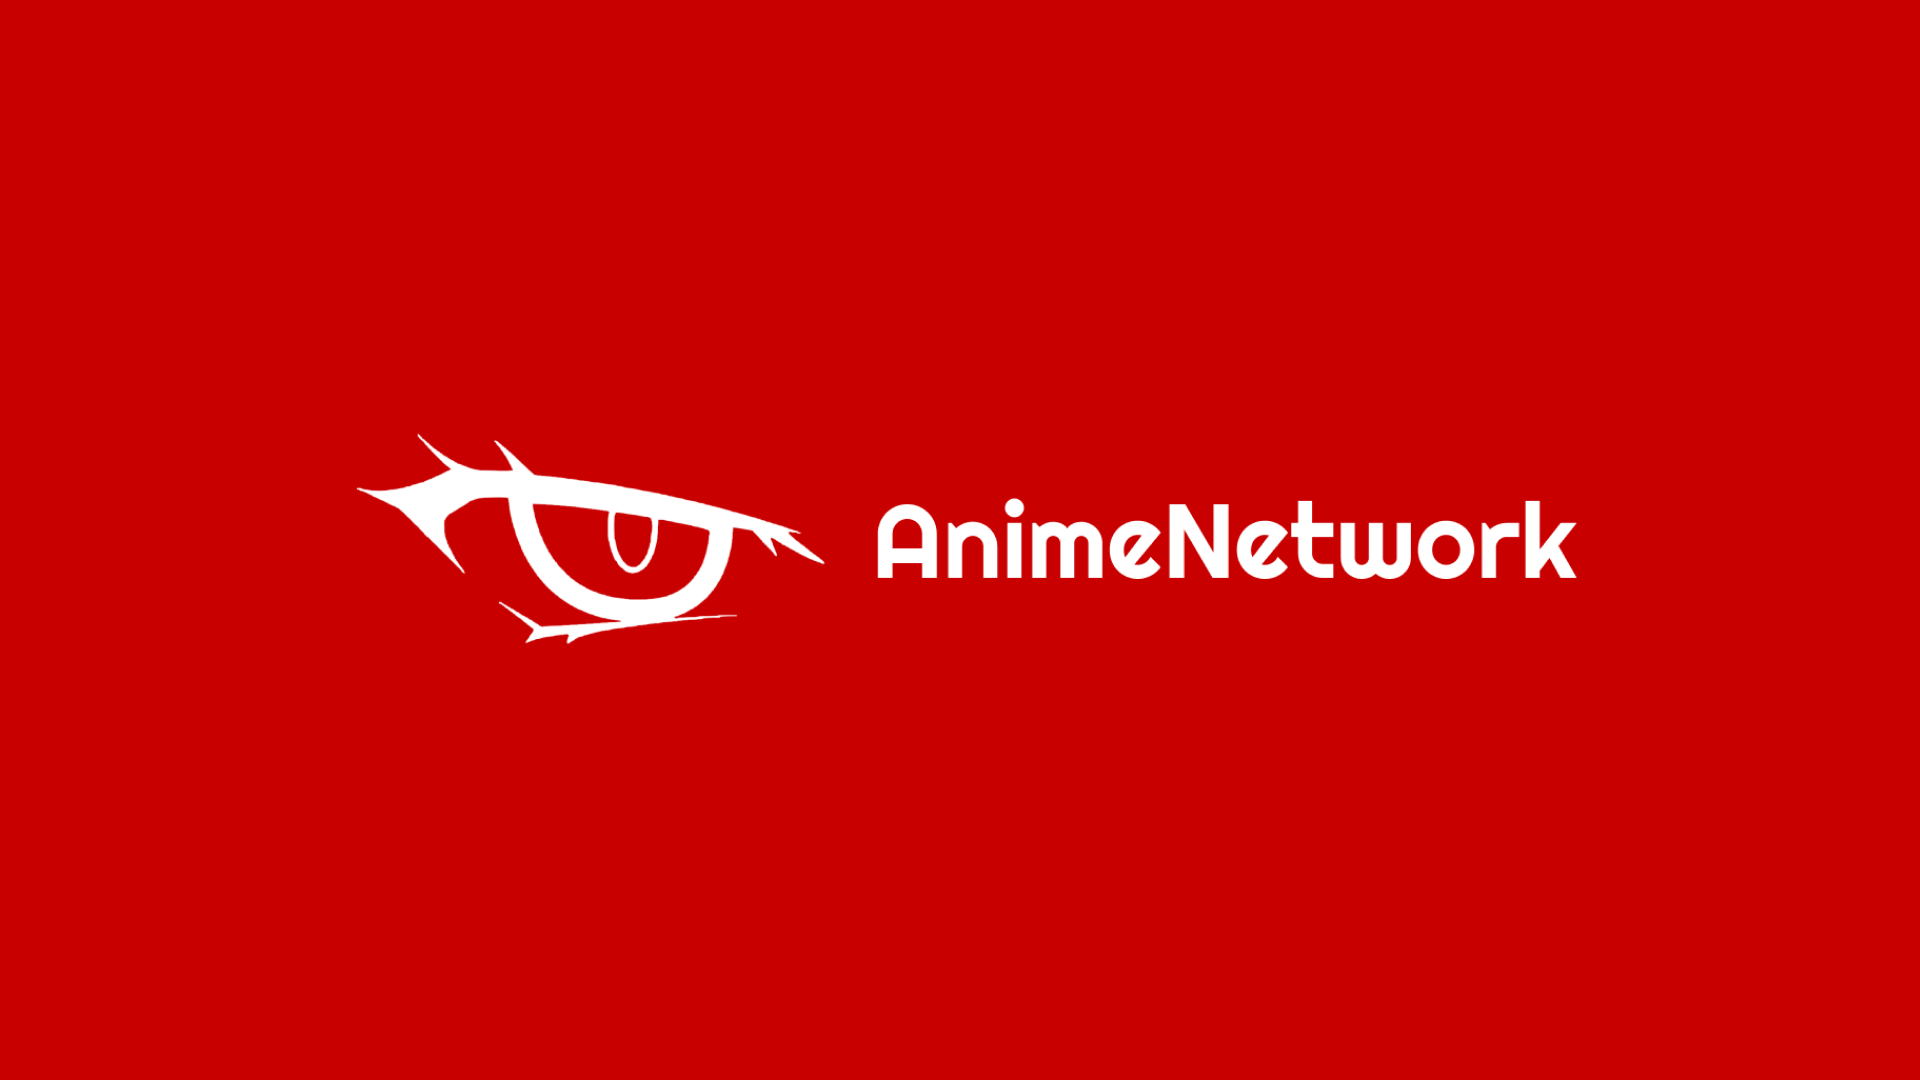
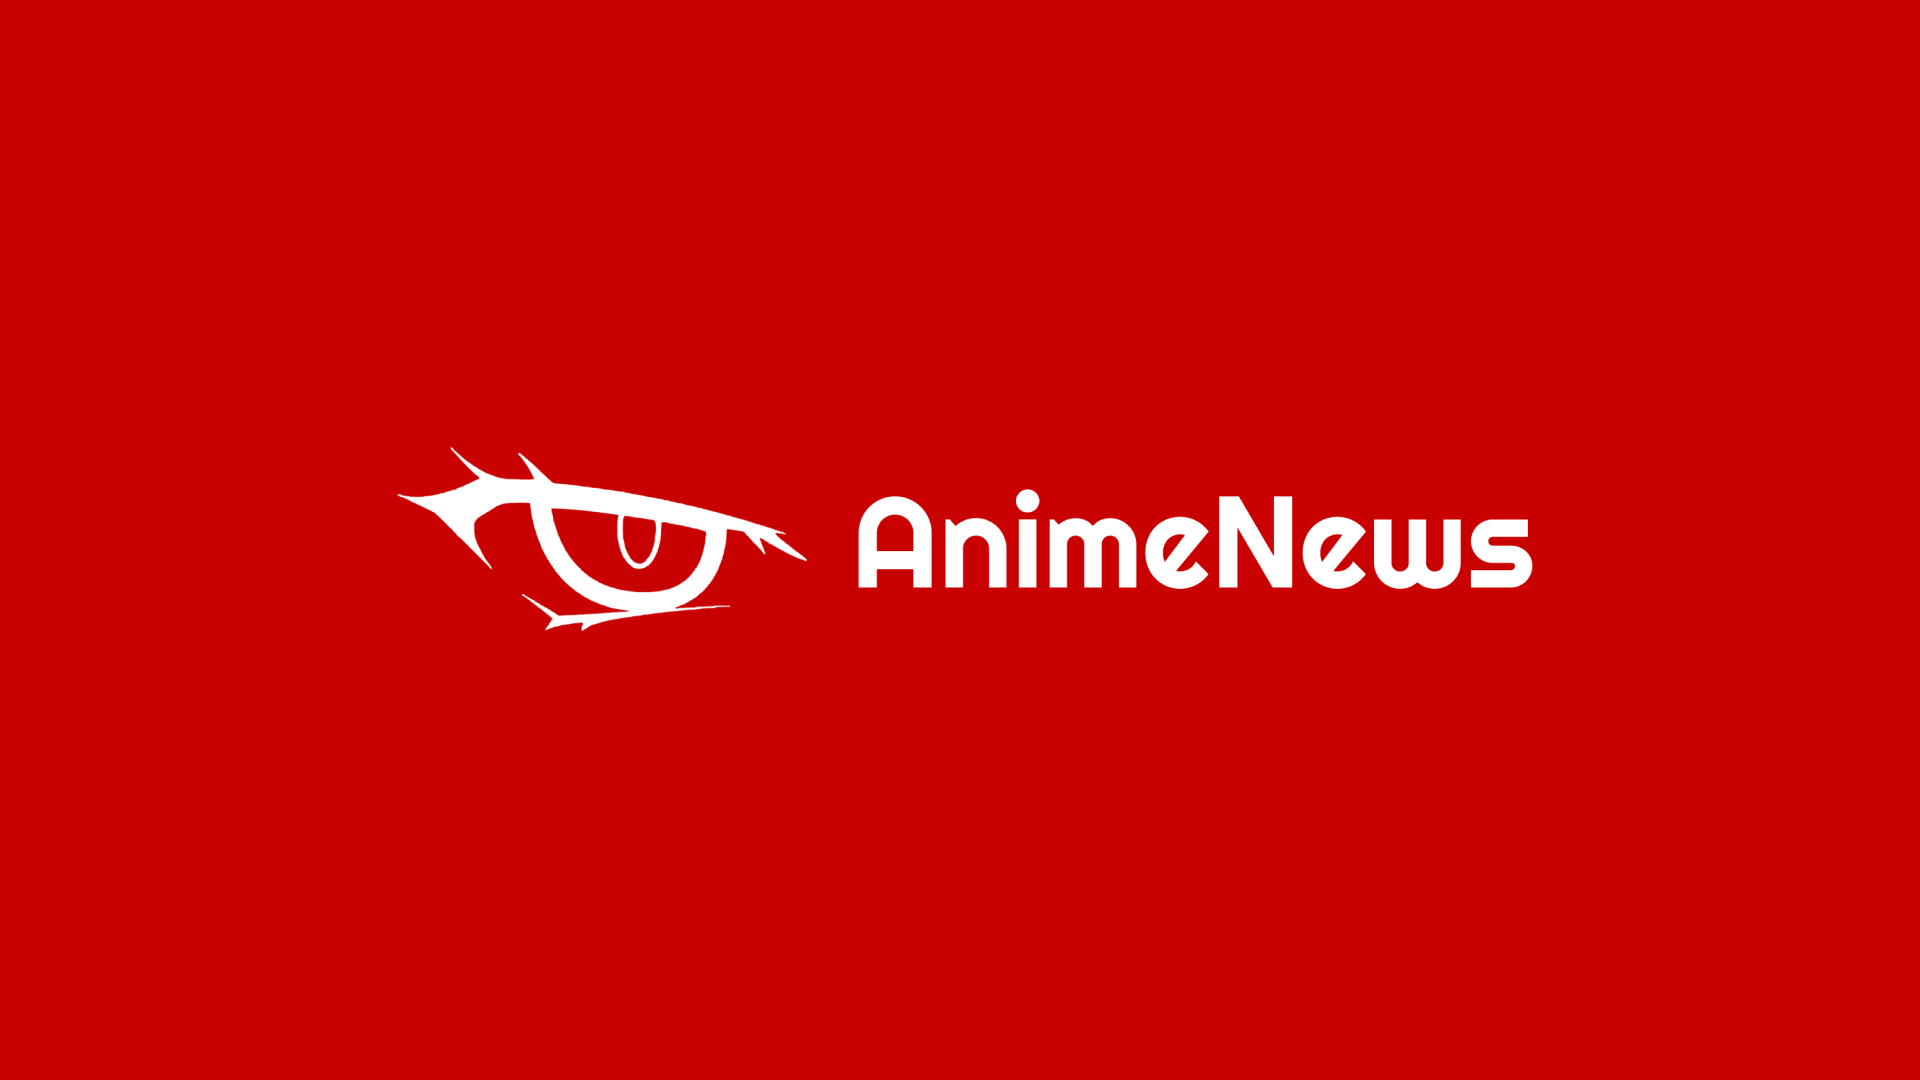
Perbaikan Kecil
Mencoba memperbaiki footer dan edit halaman login (tidak mengubah isinya, namun hanya mengubah padding) serta mengganti logo dan thumbnail website.

Changed region(s): [[0.1875, 0.3972, 0.8438, 0.6111]]

diff --git a/app/views/templates/footer.php b/app/views/templates/footer.php
@@ -1,11 +1,11 @@
-<!--<!DOCTYPE html>
+<!DOCTYPE html>
 <html lang="en">
     <head>
         <style>
             footer {
-                position: fixed;
+                position: relative;
                 width: 100%;
-                bottom: 10px;
+                bottom: 0px;
                 margin-top: 15px;
                 padding: 15px;
                 text-align: center;
@@ -17,7 +17,7 @@
     <body>
         <footer>
             <p><b>Dibuat dengan Penuh Cinta oleh Kelompok Kawai-Desu</b></p>
-            <img src="http://localhost/UTS_webprog/design/AnimeNetworkLogo.png" alt="" width="200">
+            <img src="http://localhost/UTS_webprog/design/anime_news_logo_white.png" alt="" width="200">
         </footer>
     </body>
-</html>-->
+</html>

diff --git a/app/views/templates/header.php b/app/views/templates/header.php
@@ -38,7 +38,7 @@
     <nav class="navbar navbar-expand-lg navbar-light" style="background-color:#C90000;">
         <div class="container-fluid">
             <a class="navbar-brand" href=<?= base_url ?> style="">
-                <img src="http://localhost/UTS_webprog/design/AnimeNetworkLogo.png" alt="" width="200">
+                <img src="http://localhost/UTS_webprog/design/anime_news_logo_white.png" alt="" width="200">
             </a>
             <!-- Button for smaller-size -->
             <button class="navbar-toggler" type="button" data-bs-toggle="collapse" data-bs-target="#navbarSupportedContent" aria-controls="navbarSupportedContent" aria-expanded="false" aria-label="Toggle navigation">

diff --git a/app/views/login/index.php b/app/views/login/index.php
@@ -1,6 +1,6 @@
 
 <!-- Form -->
-<div class="container" style="padding-top: 75px; padding-bottom: 75px">
+<div class="container" style="padding-top: 9%; padding-bottom: 9%;">
     <div class="row justify-content-center">
         <form method="POST" action="<?= base_url ?>/dologin" class="col-md-6">
             <div class="form-group" style="padding-bottom:15px">
